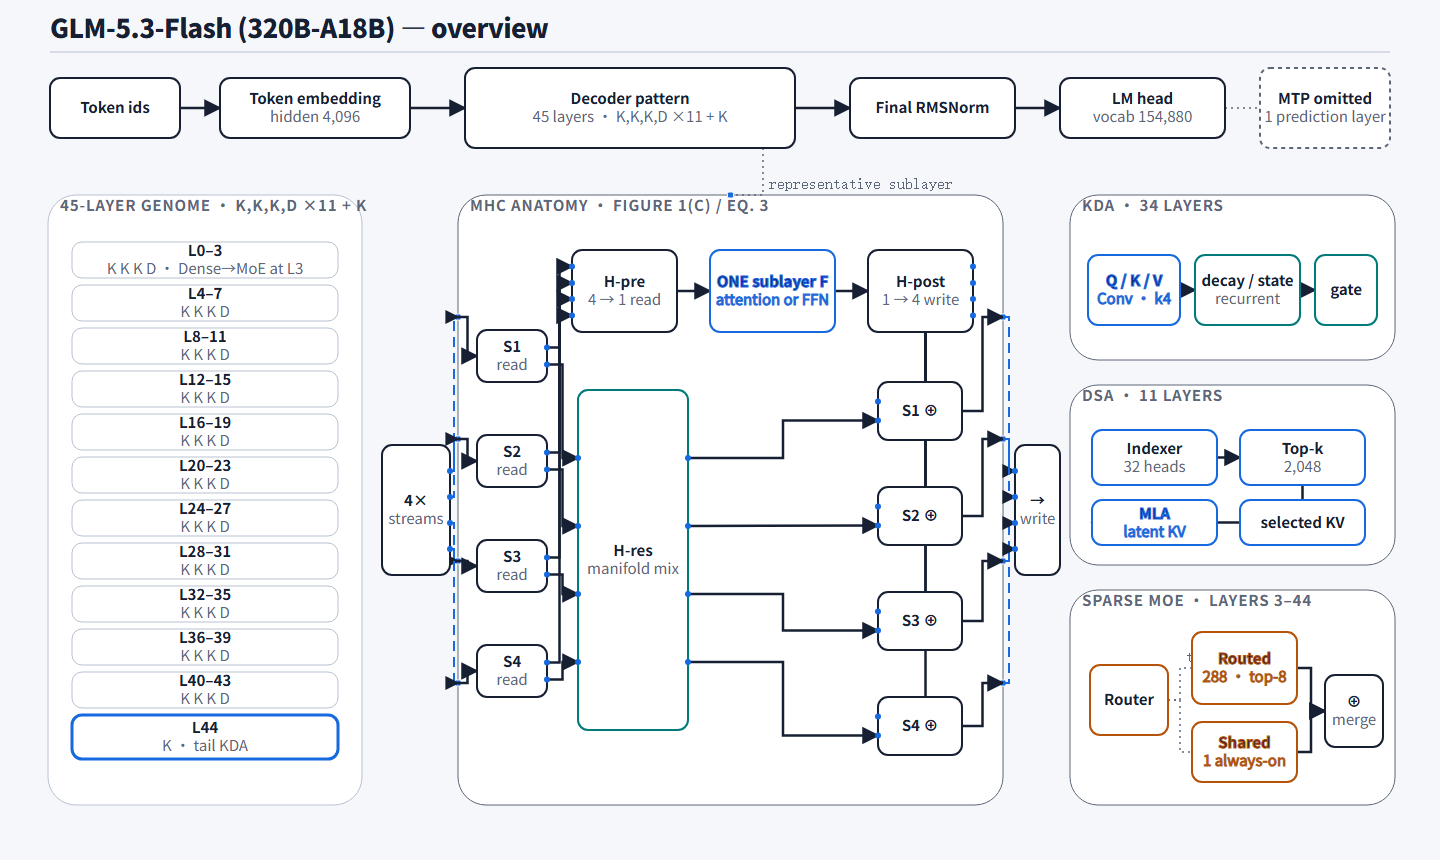
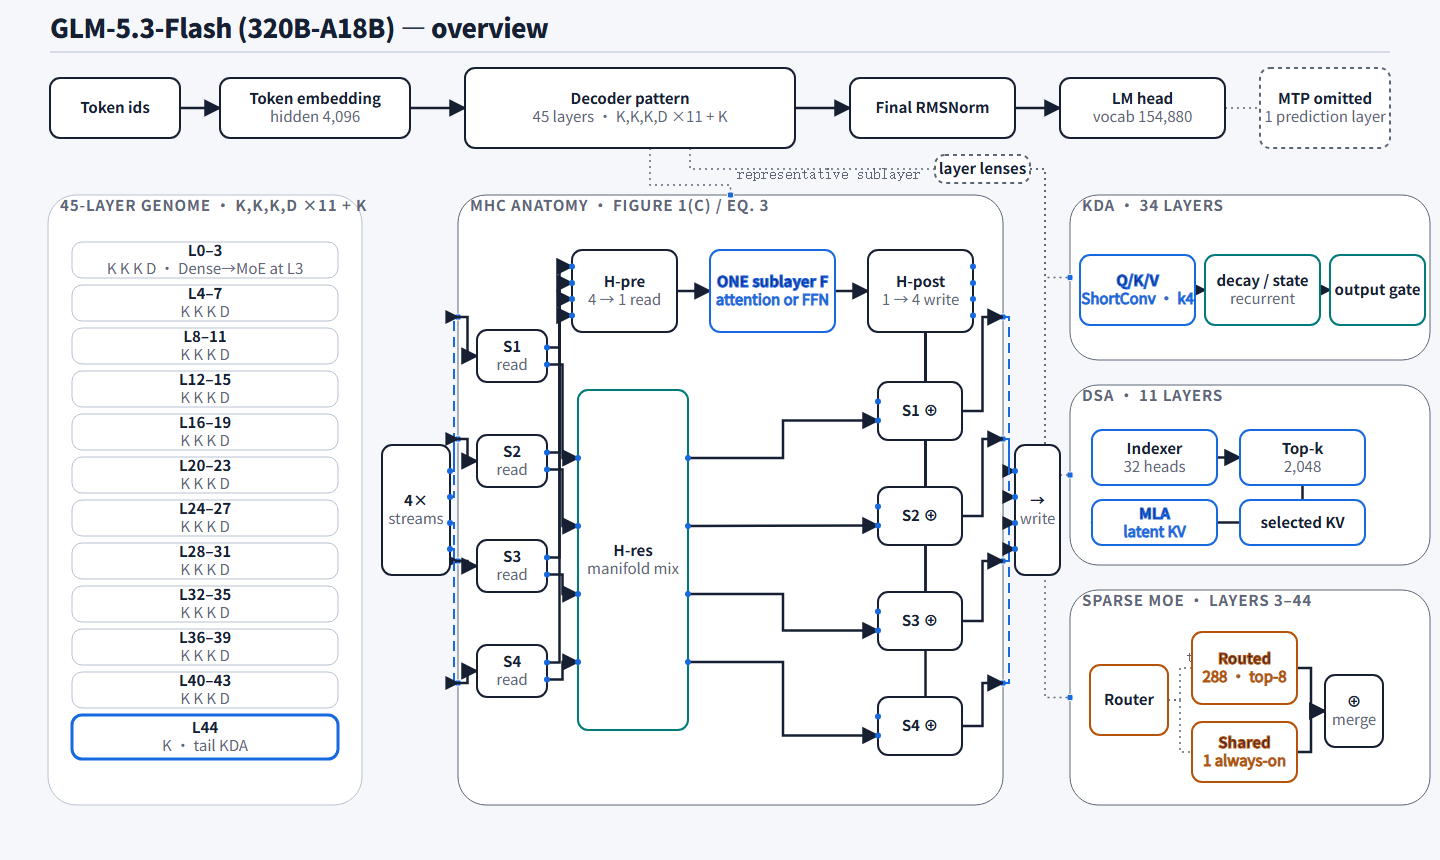
fix(#34): connect mechanism lenses to decoder

Changed region(s): [[0.75, 0.2721, 1.0, 0.393], [0.5312, 0.1814, 0.7188, 0.2116]]

diff --git a/packages/diagram-engine/src/glm-anatomy.ts b/packages/diagram-engine/src/glm-anatomy.ts
@@ -102,6 +102,7 @@ export function compileGlmAnatomyScene(arch: ModelDocument, evidence: EvidenceFi
       claimPath: "topology.mtp.predict_layers",
       claims: [{ claimPath: "topology.mtp.predict_layers", label: "1 prediction layer" }],
     },
+    { id: "lens-bus", kind: "annotation", label: "layer lenses", claimPath: "facts.num_hidden_layers" },
     ...scheduleChunks.filter((chunk) => chunk.length === 4).map((chunk, unit) => ({
       id: `pattern-${unit}`,
       kind: "schedule",
@@ -168,12 +169,12 @@ export function compileGlmAnatomyScene(arch: ModelDocument, evidence: EvidenceFi
       claimPath: "topology.residual.streams", ports: streamPorts("w", "left", "ingress"),
     },
     {
-      id: "kda-qkv", kind: "attention", label: "Q / K / V", detail: "Conv · k4",
+      id: "kda-qkv", kind: "attention", label: "Q/K/V", detail: "ShortConv · k4",
       claimPath: "topology.attention.kda_short_conv_kernel",
       claims: [{ claimPath: "topology.attention.kda_short_conv_kernel", label: "kernel 4" }],
     },
     { id: "kda-state", kind: "state", label: "decay / state", detail: "recurrent", claimPath: "topology.attention_groups[0]" },
-    { id: "kda-gate", kind: "gate", label: "gate", claimPath: "topology.attention_groups[0]" },
+    { id: "kda-gate", kind: "gate", label: "output gate", claimPath: "topology.attention_groups[0]" },
     {
       id: "dsa-indexer", kind: "indexer", label: "Indexer", detail: "32 heads",
       claimPath: "topology.attention.dsa_indexer_heads",
@@ -214,6 +215,10 @@ export function compileGlmAnatomyScene(arch: ModelDocument, evidence: EvidenceFi
     { id: "main-norm-head", from: "norm", to: "head", kind: "flow" },
     { id: "main-mtp", from: "head", to: "mtp", kind: "control", claimPath: "topology.mtp.predict_layers" },
     { id: "callout-mhc", from: "decoder", to: "g-mhc.callout", kind: "control", label: "representative sublayer" },
+    { id: "callout-lenses", from: "decoder", to: "lens-bus", kind: "control" },
+    { id: "callout-kda", from: "lens-bus", to: "g-kda.callout", kind: "control", claimPath: "topology.attention_groups[0]" },
+    { id: "callout-dsa", from: "lens-bus", to: "g-dsa.callout", kind: "control", claimPath: "topology.attention_groups[1]" },
+    { id: "callout-moe", from: "lens-bus", to: "g-moe.callout", kind: "control", claimPath: "topology.ffn_groups[1]" },
     ...SID.flatMap((i) => [
       { id: `mhc-enter-${i}`, from: `mhc-source.s${i}`, to: `g-mhc.in${i}`, kind: "residual" as const, rail: "left" as const, claimPath: "topology.residual.streams" },
       { id: `mhc-bound-in-${i}`, from: `g-mhc.in${i}`, to: `mhc-split-${i}.in`, kind: "flow" as const, claimPath: "topology.residual.scheme" },
@@ -252,15 +257,16 @@ export function compileGlmAnatomyScene(arch: ModelDocument, evidence: EvidenceFi
     },
     {
       id: "g-kda", label: `KDA · ${kda.layers.length} layers`, kind: "inset", members: ["kda-qkv", "kda-state", "kda-gate"],
-      claimPath: "topology.attention_groups[0]",
+      ports: [{ id: "callout", side: "left", inner: "kda-qkv" }], claimPath: "topology.attention_groups[0]",
     },
     {
       id: "g-dsa", label: `DSA · ${dsa.layers.length} layers`, kind: "inset", members: ["dsa-indexer", "dsa-topk", "dsa-selected", "dsa-mla"],
-      claimPath: "topology.attention_groups[1]",
+      ports: [{ id: "callout", side: "left", inner: "dsa-indexer" }], claimPath: "topology.attention_groups[1]",
     },
     {
       id: "g-moe", label: `Sparse MoE · layers ${moe.layers[0]}–${moe.layers[moe.layers.length - 1]}`, kind: "inset",
-      members: ["moe-router", "moe-routed", "moe-shared", "moe-merge"], claimPath: "topology.ffn_groups[1]",
+      members: ["moe-router", "moe-routed", "moe-shared", "moe-merge"],
+      ports: [{ id: "callout", side: "left", inner: "moe-router" }], claimPath: "topology.ffn_groups[1]",
     },
   ];
 
@@ -304,6 +310,7 @@ export function glmAnatomyBlueprint(): EditorialPosterBlueprint {
     { id: "norm", x: 850, y: 78, w: 165, h: 60 },
     { id: "head", x: 1060, y: 78, w: 165, h: 60 },
     { id: "mtp", x: 1260, y: 68, w: 130, h: 80 },
+    { id: "lens-bus", x: 935, y: 155, w: 95, h: 28 },
     ...Array.from({ length: 11 }, (_, i) => ({ id: `pattern-${i}`, x: 72, y: 242 + i * 43, w: 266, h: 36 })),
     { id: "pattern-tail", x: 72, y: 715, w: 266, h: 44 },
     { id: "mhc-source", x: 382, y: 445, w: 68, h: 130 },
@@ -314,9 +321,9 @@ export function glmAnatomyBlueprint(): EditorialPosterBlueprint {
     { id: "mhc-hres", x: 578, y: 390, w: 110, h: 340 },
     ...SID.map((i) => ({ id: `mhc-sum-${i}`, x: 878, y: 382 + (i - 1) * 105, w: 84, h: 58 })),
     { id: "mhc-sink", x: 1015, y: 445, w: 45, h: 130 },
-    { id: "kda-qkv", x: 1088, y: 255, w: 92, h: 70 },
-    { id: "kda-state", x: 1195, y: 255, w: 105, h: 70 },
-    { id: "kda-gate", x: 1315, y: 255, w: 62, h: 70 },
+    { id: "kda-qkv", x: 1080, y: 255, w: 115, h: 70 },
+    { id: "kda-state", x: 1205, y: 255, w: 115, h: 70 },
+    { id: "kda-gate", x: 1330, y: 255, w: 95, h: 70 },
     { id: "dsa-indexer", x: 1092, y: 430, w: 125, h: 55 },
     { id: "dsa-topk", x: 1240, y: 430, w: 125, h: 55 },
     { id: "dsa-selected", x: 1240, y: 500, w: 125, h: 45 },
@@ -329,18 +336,25 @@ export function glmAnatomyBlueprint(): EditorialPosterBlueprint {
   const groups = [
     { id: "g-pattern", x: 48, y: 195, w: 314, h: 610 },
     { id: "g-mhc", x: 458, y: 195, w: 545, h: 610 },
-    { id: "g-kda", x: 1070, y: 195, w: 325, h: 165 },
-    { id: "g-dsa", x: 1070, y: 385, w: 325, h: 180 },
-    { id: "g-moe", x: 1070, y: 590, w: 325, h: 215 },
+    { id: "g-kda", x: 1070, y: 195, w: 360, h: 165 },
+    { id: "g-dsa", x: 1070, y: 385, w: 360, h: 180 },
+    { id: "g-moe", x: 1070, y: 590, w: 360, h: 215 },
   ];
   const edges = [
     "main-token-embed", "main-embed-decoder", "main-decoder-norm", "main-norm-head", "main-mtp",
-    "callout-mhc",
+    "callout-mhc", "callout-lenses", "callout-kda", "callout-dsa", "callout-moe",
     ...SID.flatMap((i) => [
       `mhc-enter-${i}`, `mhc-bound-in-${i}`, `mhc-pre-${i}`, `mhc-res-in-${i}`, `mhc-res-out-${i}`,
       `mhc-post-${i}`, `mhc-bound-out-${i}`, `mhc-exit-${i}`,
     ]),
     "mhc-pre-f", "mhc-f-post", "kda-1", "kda-2", "dsa-1", "dsa-2", "dsa-3", "moe-1", "moe-2", "moe-3", "moe-4",
   ];
-  return { id: "glm-anatomy-desktop", size: { w: 1440, h: 860 }, nodes, groups, edges };
+  const edgeRoutes: NonNullable<EditorialPosterBlueprint["edgeRoutes"]> = {
+    "callout-mhc": [{ x: 650, y: 148 }, { x: 650, y: 185 }, { x: 730.5, y: 185 }, { x: 730.5, y: 195 }],
+    "callout-lenses": [{ x: 690, y: 148 }, { x: 690, y: 169 }, { x: 935, y: 169 }],
+    "callout-kda": [{ x: 1030, y: 169 }, { x: 1045, y: 169 }, { x: 1045, y: 277.5 }, { x: 1070, y: 277.5 }],
+    "callout-dsa": [{ x: 1030, y: 169 }, { x: 1045, y: 169 }, { x: 1045, y: 475 }, { x: 1070, y: 475 }],
+    "callout-moe": [{ x: 1030, y: 169 }, { x: 1045, y: 169 }, { x: 1045, y: 697.5 }, { x: 1070, y: 697.5 }],
+  };
+  return { id: "glm-anatomy-desktop", size: { w: 1440, h: 860 }, nodes, groups, edges, edgeRoutes };
 }

diff --git a/packages/diagram-engine/src/glm-anatomy.test.ts b/packages/diagram-engine/src/glm-anatomy.test.ts
@@ -20,6 +20,15 @@ describe("GLM anatomy poster", () => {
     expect(scene.edges.find((edge) => edge.id === "dsa-2")?.to).toBe("dsa-selected");
     expect(scene.edges.filter((edge) => edge.id.startsWith("moe-") && edge.to === "moe-merge")).toHaveLength(2);
     expect(scene.nodes.find((node) => node.id === "pattern-tail")?.detail).toContain("tail KDA");
+    expect(scene.nodes.find((node) => node.id === "kda-qkv")).toMatchObject({ label: "Q/K/V", detail: "ShortConv · k4" });
+    expect(scene.nodes.find((node) => node.id === "kda-gate")?.label).toBe("output gate");
+    expect(scene.edges.filter((edge) => edge.id.startsWith("callout-")).map((edge) => edge.to)).toEqual([
+      "g-mhc.callout",
+      "lens-bus",
+      "g-kda.callout",
+      "g-dsa.callout",
+      "g-moe.callout",
+    ]);
   });
 
   it("fails validation when a residual stream leg is deleted", () => {
@@ -55,5 +64,8 @@ describe("GLM anatomy poster", () => {
     expect(first).toEqual(second);
     expect(first.size.w / first.size.h).toBeLessThanOrEqual(1.8);
     expect(first.nodes).toHaveLength(scene.nodes.length);
+    for (const id of ["callout-kda", "callout-dsa", "callout-moe"]) {
+      expect(first.edges.find((edge) => edge.id === id)?.points.length).toBeGreaterThan(2);
+    }
   });
 });

diff --git a/packages/diagram-engine/src/poster.ts b/packages/diagram-engine/src/poster.ts
@@ -17,6 +17,8 @@ export interface EditorialPosterBlueprint {
   groups: PosterBox[];
   /** Edges not listed are intentionally omitted from this composition. */
   edges: string[];
+  /** Reviewed routes for callouts that need a clear corridor around dense content. */
+  edgeRoutes?: Record<string, Point[]>;
 }
 
 function distribute(box: PosterBox, side: "left" | "right" | "top" | "bottom", index: number, count: number): Point {
@@ -130,7 +132,7 @@ export function composeEditorialPoster(scene: DiagramScene, blueprint: Editorial
       kind: edge.kind,
       label: edge.label,
       claimPath: edge.claimPath,
-      points: route(anchor(edge.from, true), anchor(edge.to, false)),
+      points: blueprint.edgeRoutes?.[id] ?? route(anchor(edge.from, true), anchor(edge.to, false)),
     };
   });
 
